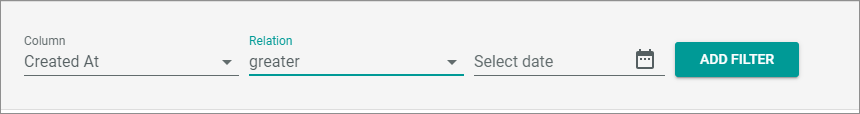
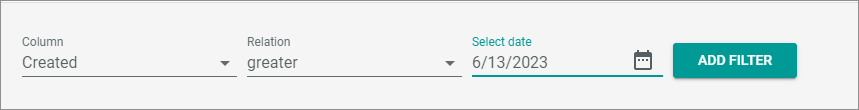
ACD-839

diff --git a/Core1Platform/UsingCore1/04_WorkWithLists.md b/Core1Platform/UsingCore1/04_WorkWithLists.md
@@ -27,7 +27,9 @@ The new view is automatically selected now.
 
 4. Define how the view is to be displayed.   
    - If applicable, define the standard filters that are placed above the list, for example *Connections*.   
-    The standard filters are applied.
+    The standard filters are applied.   
+
+     ![Standard filters](../../Assets/Screenshots/Core1Platform/UsingCore1/FilterStandard.png "[Standard filters]")
 
     - Define the columns that are to be displayed in the view, see [Add or remove columns](#add-or-remove-columns "Add or remove columns").   
 
@@ -36,7 +38,7 @@ The new view is automatically selected now.
     - Define the filters you want to apply the view, see [Use filters](#use-filters "Use filters").
 
 5. Click the ![Points](../../Assets/Icons/Points01.png "[Remove ]") (Points) button and select the ![Save](../../Assets/Icons/Save.png "[Save]") [save] button.  
-The view is saved. The next time you open the list, you can select your new view with the VIEW drop-down list.   
+The view is saved. The next time you open the list, you can select your new view with the *VIEW* drop-down list.   
 If desired, you can now delete the view by clicking the ![Points](../../Assets/Icons/Points01.png "[Points]") (Points) button and selecting the ![Delete](../../Assets/Icons/Trash01.png "[Points]") [Delete] button.
 
 6. If desired, publish the view. To do this, Click the ![Points](../../Assets/Icons/Points01.png "[Points]") (Points) button and select the ![publish](../../Assets/Icons/Publish.png "[publish]") [publish] button.   
@@ -58,7 +60,10 @@ You can define the columns that are to be displayed in a LIST.
 
 ![List view in a module](../../Assets/Screenshots/Core1Platform/UsingCore1/LISTView.png "[List view in a module]")
 1. If desired, select the view for which you want to define the columns.  
-Alternatively, you can define the columns for a temporary use without changing, or save the changes later in an existing view, or create a new view.
+Alternatively, you have the following options:   
+   - You can define the columns for a temporary use without changing.
+   - You can save the changes later in an existing view.
+   - You can create a new view with the new defined columns.
 
 2. Consider which columns should be visible without scrolling and which order would make sense.
 
@@ -67,18 +72,18 @@ A pop-up window is opened in which you can specify the columns.
 ![Define columns](../../Assets/Screenshots/Core1Platform/UsingCore1/EditColumns.png " [Define columns] ")
 
 4. Check the existing columns.   
-   - If desired, change the order of the columns. To do this, drag a column button and drop it at the required position.   
-   - If desired, remove a column. To do this, click the ![Remove](../../Assets/Icons/Cross02.png "[Remove ]") (Remove) button in the column button.
+    - If desired, change the order of the columns. To do this, drag a column button and drop it at the required position.     
+    - If desired, remove a column. To do this, click the ![Remove](../../Assets/Icons/Cross02.png "[Remove ]") (Remove) button in the column button.
    
-5. If you want to add a new column, click on the *Column* drop-down list and select an entry from the list.   
-The drop-down list contains all entries that are available for the LIST.
+5. If you want to add a new column, click on the *Column* drop-down list, and select an entry from the list. The drop-down list contains all entries that are available for the LIST.
 
 6. Click the [ADD COLUMN] button.   
 The new column is placed at the end of the column button list. Drag and drop it to the desired position.
 
 7. Click the [APPLY] button.   
-The new column is applied the view. You can optimize the column size by moving the column separator as desired.   
-If desired, you can now save and publish the view. Alternatively, you can create a new view with your new settings, see [Create view](#create-view "Create view").
+The new column is applied the view. You have now the following options: 
+   -  You can optimize the column size by moving the column separators as desired.   
+   - You can save and publish the view. Alternatively, you can create a new view with your new settings, see [Create view](#create-view "Create view").
 
 
 ## Sort list entries
@@ -95,13 +100,16 @@ For some columns, you can sort list entries ascending and descending. You can sa
 
 ![List view in a module](../../Assets/Screenshots/Core1Platform/UsingCore1/LISTView.png "[List view in a module]")
 1. If desired, select the view for which you want to define the sorting.  
-Alternatively, you can define the sorting for a temporary use without changing, or save the changes later in an existing view, or create a new view.
+Alternatively, you have the following options:   
+   - You can define the columns for a temporary use without changing.
+   - You can save the changes later in an existing view.
+   - You can create a new view with the new defined columns.
 
 2. Move the mouse pointer over the columns.  
 The mouse pointer is displayed as a little hand at all columns that can be sorted.
 
-3. Click on one of these columns indicated by a little hand to toggle between the ascending, descending, and no sorting state.   
-The column is sorted ascending, or descending, or not sorted. This depends on the state of sorting before. The sorting is indicated by a small arrow (![Descending](../../Assets/Icons/SortDescending02.png "[Descending]") (Descending) and ![Ascending](../../Assets/Icons/SortAscending02.png "[Ascending]")(Ascending))
+3. Click on one of these columns indicated by a little hand and toggle between the ascending, descending, and no sorting state.   
+The column is sorted ascending, or descending, or not sorted. This depends on the state of sorting before. The sorting is indicated by a small arrow (![Descending](../../Assets/Icons/SortDescending02.png "[Descending]") (Descending) and ![Ascending](../../Assets/Icons/SortAscending02.png "[Ascending]")(Ascending)).
 If no arrow is visible, the view is not sorted by this column.
 
     ![Sorting](../../Assets/Screenshots/Core1Platform/UsingCore1/Sorting.png "[Sorting]")
@@ -116,7 +124,7 @@ If required, you can save the filters in a view, so that you can provide differe
 
 #### Prerequisites
 
-- You have opened a LIST view in a module
+- You have opened a LIST view in a module.
 
 #### Procedure
 
@@ -129,8 +137,8 @@ A pop-up window is opened in which you can define the filter.
 
    ![List view &ndash; Filter pop-up ](../../Assets/Screenshots/Core1Platform/UsingCore1/FilterPopUp.png "[List view &ndash; Filter pop-up ]")
 
-2. In the *Column* drop-down list, select the column for which you want to apply a filter.
-The *Relation* field is shown. The relation defines the filter operator, which specifies how the filter criteria relate to each other.
+2. In the *Column* drop-down list, select the column for which you want to apply a filter.   
+The selected column is applied the *Column* drop-down list. In addition, the *Relation* field is shown. The relation defines the filter operator, which specifies how the filter criteria are to be related to each other.
  
     ![List view &ndash; Filter relation](../../Assets/Screenshots/Core1Platform/UsingCore1/FilterPopUpRelation.png "[List view &ndash; Filter relation]")
 
@@ -138,7 +146,7 @@ The *Relation* field is shown. The relation defines the filter operator, which s
    > [Info] The relations you can use depend on the module you are working in and the column you specify.   
    
 
-   The following relations are available:
+   The following relations are available for *Actindo* LISTS:<!---Bitte prüfen, ob die Angaben zu den Feldtypen stimmen-->
 
      - **between**   
 In most cases, this relation is available for date fields. You can use it to filter the list for values that are between a specific date range, whereby the start and end date is included. For example, a filter between 05/05/2022 and 05/07/2022 displays all values available on 05/05/2022, 05/06/2022, and 05/07/2022.
@@ -148,37 +156,37 @@ In most cases, this relation is available for date fields. You can use it to fil
         > [Info] If a value help for dates is available, click the ![Calendar](../../Assets/Icons/Calendar.png "[Calendar]") (Calendar) button to open the value help, select the value, and click it again to apply the value.
 
      - **equal**   
-This relation is available for character and date fields. You can use it to filter the list for a specific value, for example the date 06/13/2023 or the transaction ID KXQTFDGK4DQ2WN82.
+This relation is available for character and date fields. You can use it to filter the list for a specific value, for example the date 6/14/2023 or the transaction ID KXQTFDGK4DQ2WN82.
 
        ![Filter relation equal](../../Assets/Screenshots/Core1Platform/UsingCore1/FilterRelationEqual.png "[Filter relation equal]")
 
      - **greater**   
-This relation is available for numeric and date fields. You can use it to filter the list for values that are greater the value you specified. For example, if you enter the date 05/05/2023, you get all list entries from 05/06/2023.
+This relation is available for numeric and date fields. You can use it to filter the list for values that are greater the value you specified. For example, if you enter the date 6/13/2023, you get all list entries from 6/14/2023.
 
-       ![Filter relation greater](../../Assets/Screenshots/Core1Platform/UsingCore1/FilterRelationLess.png "[Filter relation greater]")
+       ![Filter relation greater](../../Assets/Screenshots/Core1Platform/UsingCore1/FilterRelationGreater.png "[Filter relation greater]")
 
      - **greater or equal**   
-This relation is available for numeric and date fields. You can use it to filter the list for values that are greater or equal the value you specified. For example, if you enter the date 05/05/2022, you get all list entries from 05/05/2022.
+This relation is available for numeric and date fields. You can use it to filter the list for values that are greater or equal the value you specified. For example, if you enter the date 6/13/2023, you get all list entries from 6/13/2023.
 
        ![Filter relation greater or equal](../../Assets/Screenshots/Core1Platform/UsingCore1/FilterRelationLessEqual.png "[Filter relation greater or equal]")
 
      - **less**   
-This relation is available for numeric and date fields. You can use it to filter the list for values that are less the value you specified. For example, if you enter the date 05/05/2023, you get all list entries until 05/04/2023.  
+This relation is available for numeric and date fields. You can use it to filter the list for values that are less the value you specified. For example, if you enter the date 6/13/2023, you get all list entries until 6/12/2023.  
 
        ![Filter relation less](../../Assets/Screenshots/Core1Platform/UsingCore1/FilterRelationLess.png "[Filter relation less]")
 
      - **less or equal**   
-This relation is available for character and date fields. You can use it to filter the list for values that are less or equal the value you specified. For example, if you enter the date 05/05/2023, you get all list entries until 05/05/2023.
+This relation is available for character and date fields. You can use it to filter the list for values that are less or equal the value you specified. For example, if you enter the date 6/13/2023, you get all list entries until 6/13/2023.
 
        ![Filter relation less or equal](../../Assets/Screenshots/Core1Platform/UsingCore1/FilterRelationLessEqual.png "[Filter relation less or equal]")
 
      - **like**   
-This relation is available for date and character fields. You can use it to filter the list for values that contain a specific string. For example, by filtering an ID that starts with KX, you get all list entries that contain these string in the specified field. Or you want to filter the list for a specific month and enter 2023-05.
+This relation is available for date and character fields. You can use it to filter the list for values that contain a specific string. For example, by filtering an ID that starts with KX, you get all list entries that contain this string in the specified field. Or you want to filter the list for a specific month and enter 2023-05.
 
        ![Filter relation like](../../Assets/Screenshots/Core1Platform/UsingCore1/FilterRelationLike.png "[Filter relation like]")
 
      - **not equal to**   
-     This relation is available for character and date fields. You can use it to remove specific entries from the list, for example entries with a *Transaction date* 06/21/2023 or the *Status ID* **Success**.
+     This relation is available for character and date fields. You can use it to remove specific entries from the list, for example entries with a *Transaction date* 06/21/2023 or the *Status ID* **2**.
 
        ![Filter relation not equal to](../../Assets/Screenshots/Core1Platform/UsingCore1/FilterRelationNotEqualTo.png "[Filter relation not equal to]")
 
@@ -220,12 +228,12 @@ The filter is applied the list. The applied filter is shown above the *Columns* 
 *Actindo Core1 Platform > Any module > LIST view*
 
 ![List view in a module](../../Assets/Screenshots/Core1Platform/UsingCore1/LISTView.png "[List view in a module]")
-1. Select the view you want to rename in the VIEW drop-down list.
+1. Select the view you want to rename in the *VIEW* drop-down list.
 
-2. Click the ![Points](../../Assets/Icons/Points01.png "[Remove ]") (Points) button to the right of the *View* drop-down list.   
+2. Click the ![Points](../../Assets/Icons/Points01.png "[Remove ]") (Points) button to the right of the *VIEW* drop-down list.   
 
 2. Click the  ![rename](../../Assets/Icons/Edit02.png "[Remove ]") [rename] button.   
-The *Rename view* window is displayed.
+The *Rename "view name"* window is displayed.
 
    ![Rename view](../../Assets/Screenshots/Core1Platform/UsingCore1/RenameView.png "[Rename view]")
 

diff --git a/Core1Platform/UsingCore1/01a_UserSetupActindo.md b/Core1Platform/UsingCore1/01a_UserSetupActindo.md
@@ -3,9 +3,15 @@
 
 # Set up U2F from the user side
 
-The secure access to Actindo can be granted by using *Multi-Factor Authentication (MFA)*. The *MFA authentication* method requires two or more verification factors to log in to an application or website. Actindo uses the *YubiKey* as a second factor for the two-factor authentication, using the *Universal Second Factor (U2F)* standard.
+The secure access to Actindo can be granted by using the *Multi-Factor Authentication (MFA)*. The *MFA authentication* method requires two or more verification factors to log in to an application or website.    
+Actindo uses the *YubiKey* as a second factor for the two-factor authentication, using the *Universal Second Factor (U2F)* standard.
+The Multi-Factor Authentication (MFA) offers the following benefits:
+- Increased security in the login process and with third parties.
+- Increased security of the user's identity.
+- Better access control.
+- Reduction of password risks.
 
-For the U2F setup of an Actindo account, a user-side setup as well as an administrator-side setup is necessary. As a user, you need to define several settings within your Actindo account to add *U2F* with the *YubiKey* as an authorization method.
+For the U2F setup of an Actindo account, a user-side setup as well as an administrator-side setup is necessary. As a user, you need to define several settings within your Actindo account to add *U2F* with the *YubiKey* as a login method.
 
 #### Prerequisites
 
@@ -50,10 +56,14 @@ For the U2F setup of an Actindo account, a user-side setup as well as an adminis
 
     ![Add new U2F device](../../Assets/Screenshots/Core1Platform/ProfileSettings/U2F/AddNewU2FDevice.png "[Add new U2F device]")
 
-7. Click the [OK] button to continue the device registration for U2F.   
+    > [INFO] The following steps may vary depending on the key used. Some keys also require a Windows pin that you can choose by yourself.
+
+
+7. Click the [OK] button to continue the device registration for U2F. Note, that after clicking the [OK] button you only have time for about 15 seconds for finishing the registration. After that the process will be timed out. Restart the registration if a time-out occurs.   
     The browser window *Verify your identity* is displayed to select the device type for the identity verification.
 
     ![Verify your identity](../../Assets/Screenshots/Core1Platform/ProfileSettings/U2F/VerifyIdentity.png "[Verify your identity]")
+
 
 8. Select the *USB security key* option in the browser window.   
     The browser window changes to the *Use your security key* window and prompts you to insert the key and touch it.

diff --git a/Core1Platform/UserInterface/01d_U2F.md b/Core1Platform/UserInterface/01d_U2F.md
@@ -1,10 +1,11 @@
-[!!Set up U2F from the user side](../UsingCore1/01b_U2FLogin.md)
+[!!Set up U2F from the user side](../UsingCore1/01b_U2FLogin.md)   
+[!!Set up U2F from the administrator side](../AdministratingCore1/03_AdminSetupActindo.md)
 
 # U2F
 
 *Avator icon > Menu entry Settings > Tab U2F*
 
-![SSH keys](../../Assets/Screenshots/Core1Platform/ProfileSettings/U2F/U2F.png "[SSH keys]")
+![U2F](../../Assets/Screenshots/Core1Platform/ProfileSettings/U2F/U2F.png "[U2F]")
 
 **Edit U2F keys of user**
 
@@ -17,10 +18,9 @@
 - [x]     
     Select the checkbox to display the editing toolbar. You cannot select multiple checkboxes at once.
 
-[comment]: <> (Alex: Kommt in Live Accounts auch nur ein Delete button, wie im Sandbox?)
 
 - ![Delete](../../Assets/Icons/Trash03.png "[Delete]") (Delete)      
-    Click this button to delete the selected SSH key. This button is only displayed, when the checkbox of a SSH key is selected.       
+    Click this button to delete the selected SSH key. This button is only displayed, when the checkbox of an SSH key is selected.       
 
 The list displays all SSH keys. All fields are read-only. Depending on the settings, the displayed columns may vary.
 
@@ -29,7 +29,7 @@ The list displays all SSH keys. All fields are read-only. Depending on the setti
 
 - *# Logins*   
 
-  [comment]: <> (Alex: Was wird hier angezeigt? Bei mir in Sandbox wird nichts angezeigt.)
+  [comment]: <> (Was wird hier angezeigt? Bei mir in Sandbox wird nichts angezeigt.)
 
 - *Created by*   
     Name and username of the user who created the U2F key.

diff --git a/Core1Platform/UsingCore1/01b_U2FLogin.md b/Core1Platform/UsingCore1/01b_U2FLogin.md
@@ -26,7 +26,7 @@ After U2F has been configured for your Actindo account, you will use U2F from yo
 
     ![Login U2F](../../Assets/Screenshots/Core1Platform/LoginU2F.png "[Login U2F]")
 
-3. Click the *Click here to start the second factor authentication* button.    
+3. Click the *Click here to start the second factor authentication* button. Note, some keys may require another procedure, for example, you might have to enter your pre-set pin before touching the U2F key.   
     The browser window *Verify your identity* is displayed to select the device type for the identity verification.
 
     ![Verify your identity](../../Assets/Screenshots/Core1Platform/ProfileSettings/U2F/VerifyIdentity.png "[Verify your identity]")
@@ -41,5 +41,5 @@ After U2F has been configured for your Actindo account, you will use U2F from yo
 
     > [Info] Note that problems with the connection to the *YubiKey* may occur if you use an adapter or an additional cable to connect the *YubiKey*.
 
-6. Touch the flashing area on your *YubiKey* .   
+6. Touch the flashing area on your *YubiKey*.   
     The browser window is closed. You are logged in to your account after a few moments.  

diff --git a/Core1Platform/AdministratingCore1/03_AdminSetupActindo.md b/Core1Platform/AdministratingCore1/03_AdminSetupActindo.md
@@ -5,6 +5,15 @@
 
 For the U2F setup of an Actindo account, a user-side setup as well as an administrator-side setup is necessary. The Actindo administrator needs to activate U2F as an authorization method for the corresponding user to complete the *U2F* setup.
 
+- Strong protection     
+    The user credentials are protected with strong public key cryptography and bound to the service. Since only the real site can authenticate with a key, this provides a high level of protection against account takeover.  
+
+- No additional apps or software required  
+    The *YubiKey* protects access to computers, networks and online services with a single touch.
+
+- Convenient authentication with just a few steps     
+    The authentication code is created via USB between the *YubiKey* and your device without further manual input steps.
+
 #### Prerequisites
 
 - You have the required admin rights in the Actindo Core1 Platform.

diff --git a/Core1Platform/HelpAndSupport/00_HelpAndSupport.md b/Core1Platform/HelpAndSupport/00_HelpAndSupport.md
@@ -1,0 +1,1 @@
+# Help and support
